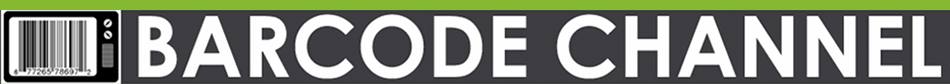
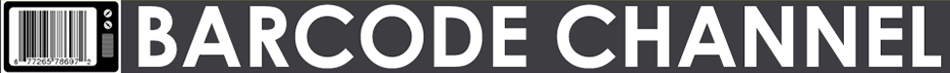
Using PJAX for ajax page loading

diff --git a/public/javascripts/jquery.pjax.js b/public/javascripts/jquery.pjax.js
@@ -1,0 +1,215 @@
+// jquery.pjax.js
+// copyright chris wanstrath
+// https://github.com/defunkt/jquery-pjax
+
+(function($){
+
+// When called on a link, fetches the href with ajax into the
+// container specified as the first parameter or with the data-pjax
+// attribute on the link itself.
+//
+// Tries to make sure the back button and ctrl+click work the way
+// you'd expect.
+//
+// Accepts a jQuery ajax options object that may include these
+// pjax specific options:
+//
+// container - Where to stick the response body. Usually a String selector.
+//             $(container).html(xhr.responseBody)
+//      push - Whether to pushState the URL. Defaults to true (of course).
+//   replace - Want to use replaceState instead? That's cool.
+//
+// For convenience the first parameter can be either the container or
+// the options object.
+//
+// Returns the jQuery object
+$.fn.pjax = function( container, options ) {
+  if ( options )
+    options.container = container
+  else
+    options = $.isPlainObject(container) ? container : {container:container}
+
+  return this.live('click', function(event){
+    // Middle click, cmd click, and ctrl click should open
+    // links in a new tab as normal.
+    if ( event.which > 1 || event.metaKey )
+      return true
+
+    var defaults = {
+      url: this.href,
+      container: $(this).attr('data-pjax'),
+      clickedElement: $(this)
+    }
+
+    $.pjax($.extend({}, defaults, options))
+
+    event.preventDefault()
+  })
+}
+
+
+// Loads a URL with ajax, puts the response body inside a container,
+// then pushState()'s the loaded URL.
+//
+// Works just like $.ajax in that it accepts a jQuery ajax
+// settings object (with keys like url, type, data, etc).
+//
+// Accepts these extra keys:
+//
+// container - Where to stick the response body.
+//             $(container).html(xhr.responseBody)
+//      push - Whether to pushState the URL. Defaults to true (of course).
+//   replace - Want to use replaceState instead? That's cool.
+//
+// Use it just like $.ajax:
+//
+//   var xhr = $.pjax({ url: this.href, container: '#main' })
+//   console.log( xhr.readyState )
+//
+// Returns whatever $.ajax returns.
+$.pjax = function( options ) {
+  var $container = $(options.container),
+      success = options.success || $.noop
+
+  // We don't want to let anyone override our success handler.
+  delete options.success
+
+  var defaults = {
+    timeout: 650,
+    push: true,
+    replace: false,
+    // We want the browser to maintain two separate internal caches: one for
+    // pjax'd partial page loads and one for normal page loads. Without
+    // adding this secret parameter, some browsers will often confuse the two.
+    data: { _pjax: true },
+    type: 'GET',
+    dataType: 'html',
+    beforeSend: function(xhr){
+      $container.trigger('start.pjax')
+      xhr.setRequestHeader('X-PJAX', 'true')
+    },
+    error: function(){
+      window.location = options.url
+    },
+    complete: function(){
+      $container.trigger('end.pjax')
+    },
+    success: function(data){
+      // If we got no data or an entire web page, go directly
+      // to the page and let normal error handling happen.
+      if ( !$.trim(data) || /<html/i.test(data) )
+        return window.location = options.url
+
+      // Make it happen.
+      $container.html(data)
+
+      // If there's a <title> tag in the response, use it as
+      // the page's title.
+      var oldTitle = document.title,
+          title = $.trim( $container.find('title').remove().text() )
+      if ( title ) document.title = title
+
+      var state = {
+        pjax: options.container,
+        timeout: options.timeout
+      }
+
+      // We can't persist $objects using the history API so we need to store
+      // the string selector.
+      if ( $.isPlainObject(state.pjax) )
+        state.pjax = state.pjax.selector
+
+      // If there are extra params, save the complete URL in the state object
+      var query = $.param(options.data)
+      if ( query != "_pjax=true" )
+        state.url = options.url + (/\?/.test(options.url) ? "&" : "?") + query
+
+      if ( options.replace ) {
+        window.history.replaceState(state, document.title, options.url)
+      } else if ( options.push ) {
+        // this extra replaceState before first push ensures good back
+        // button behavior
+        if ( !$.pjax.active ) {
+          window.history.replaceState($.extend({}, state, {url:null}), oldTitle)
+          $.pjax.active = true
+        }
+
+        window.history.pushState(state, document.title, options.url)
+      }
+
+      // Google Analytics support
+      if ( (options.replace || options.push) && window._gaq )
+        _gaq.push(['_trackPageview'])
+
+      // Invoke their success handler if they gave us one.
+      success.apply(this, arguments)
+    }
+  }
+
+  options = $.extend(true, {}, defaults, options)
+
+  if ( $.isFunction(options.url) ) {
+    options.url = options.url()
+  }
+
+  // Cancel the current request if we're already pjaxing
+  var xhr = $.pjax.xhr
+  if ( xhr && xhr.readyState < 4) {
+    xhr.onreadystatechange = $.noop
+    xhr.abort()
+  }
+
+  $.pjax.xhr = $.ajax(options)
+  $(document).trigger('pjax', $.pjax.xhr, options)
+
+  return $.pjax.xhr
+}
+
+
+// Used to detect initial (useless) popstate.
+// If history.state exists, assume browser isn't going to fire initial popstate.
+var popped = ('state' in window.history), initialURL = location.href
+
+
+// popstate handler takes care of the back and forward buttons
+//
+// You probably shouldn't use pjax on pages with other pushState
+// stuff yet.
+$(window).bind('popstate', function(event) {
+  // Ignore inital popstate that some browsers fire on page load
+  var initialPop = !popped && location.href == initialURL
+  popped = true
+  if ( initialPop ) return
+
+  var state = event.state
+
+  if ( state && state.pjax ) {
+    var $container = $(state.pjax+'')
+    if ( $container.length )
+      $.pjax({
+        url: state.url || location.href,
+        container: $container,
+        push: false,
+        timeout: state.timeout
+      })
+    else
+      window.location = location.href
+  }
+})
+
+
+// Add the state property to jQuery's event object so we can use it in
+// $(window).bind('popstate')
+if ( $.inArray('state', $.event.props) < 0 )
+  $.event.props.push('state')
+
+
+// Fall back to normalcy for older browsers.
+if ( !window.history || !window.history.pushState ) {
+  $.pjax = $.noop
+  $.fn.pjax = function() { return this }
+}
+
+
+})(jQuery);
+

diff --git a/public/stylesheets/global.css b/public/stylesheets/global.css
@@ -18,8 +18,8 @@ p {
 }
 
 div.header_links {
-    color: white;
-    text-decoration: none;
+  color: white;
+  text-decoration: none;
 }
 
 div.page_frame {
@@ -31,12 +31,15 @@ div.page_frame {
 }
 
 div.header {
-    height: 84px;
-    background-color: #3E3D42;
-    color:  white;
-    font-size: 5em;
+  height: 84px;
+  background-color: #85B931;
+  color:  white;
+  font-size: 5em;
 }
 
+div.header img{
+  padding-top: 11px;
+}
 div.main_content > div {
   padding-left: 15px;
 } 

diff --git a/public/javascripts/application.js b/public/javascripts/application.js
@@ -1,2 +1,4 @@
-// Place your application-specific JavaScript functions and classes here
-// This file is automatically included by javascript_include_tag :defaults
+$(function(){
+  // pjax
+  $('ul.menu a').pjax('#main')
+})

diff --git a/app/controllers/application_controller.rb b/app/controllers/application_controller.rb
@@ -5,6 +5,15 @@ class ApplicationController < ActionController::Base
 
   helper_method :current_user
 
+  #We don't want to render the layout if PJAX is working
+  def render(options = nil, extra_options = {}, &block)
+    if request.headers['X-PJAX'] == 'true'
+      options = {} if options.nil?
+      options[:layout] = false 
+    end
+    super(options, extra_options, &block)
+  end
+
   private
   def current_user_session
     return @current_user_session if defined?(@current_user_session)
@@ -19,4 +28,5 @@ class ApplicationController < ActionController::Base
     flash[:error] = "Access denied!"
     redirect_to root_url
   end
+  
 end
